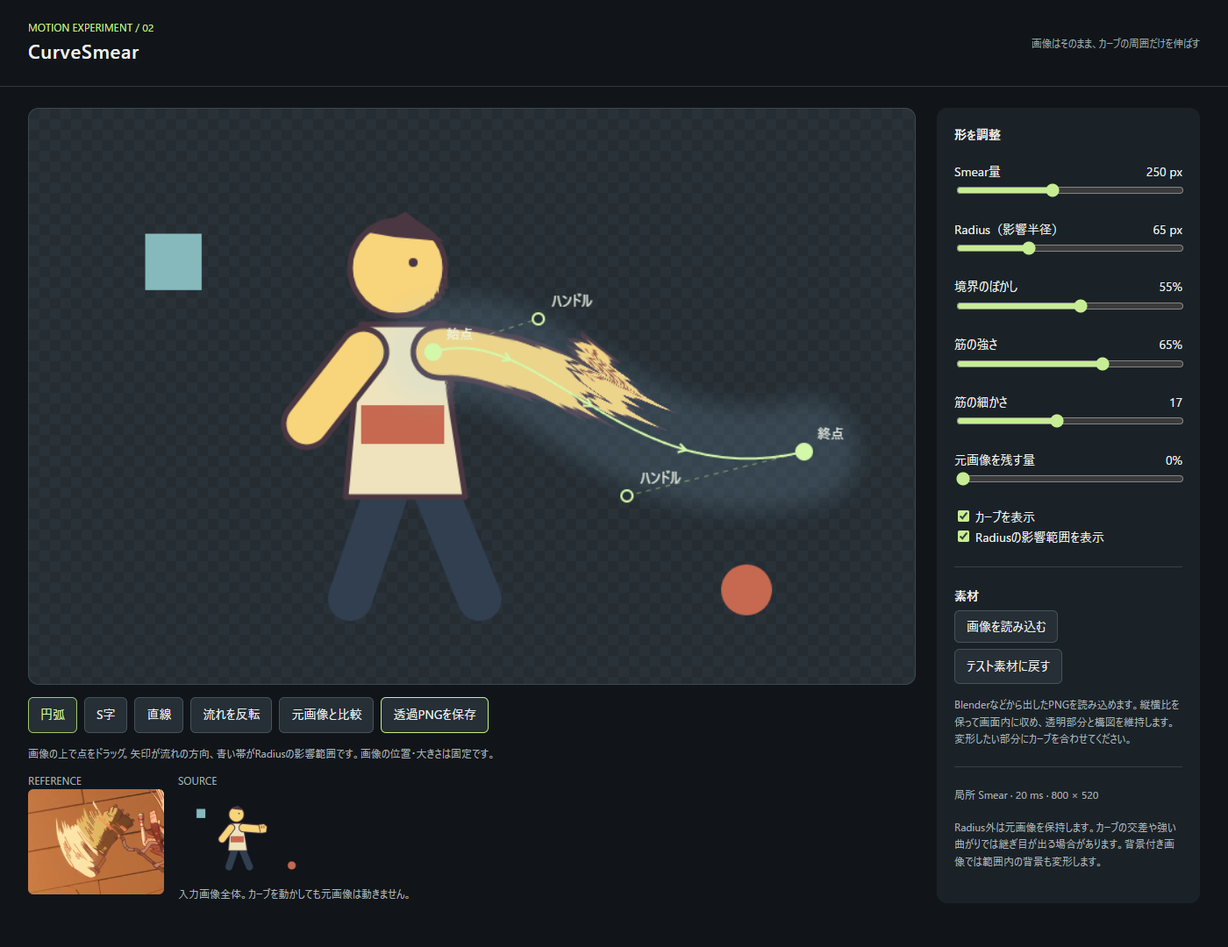
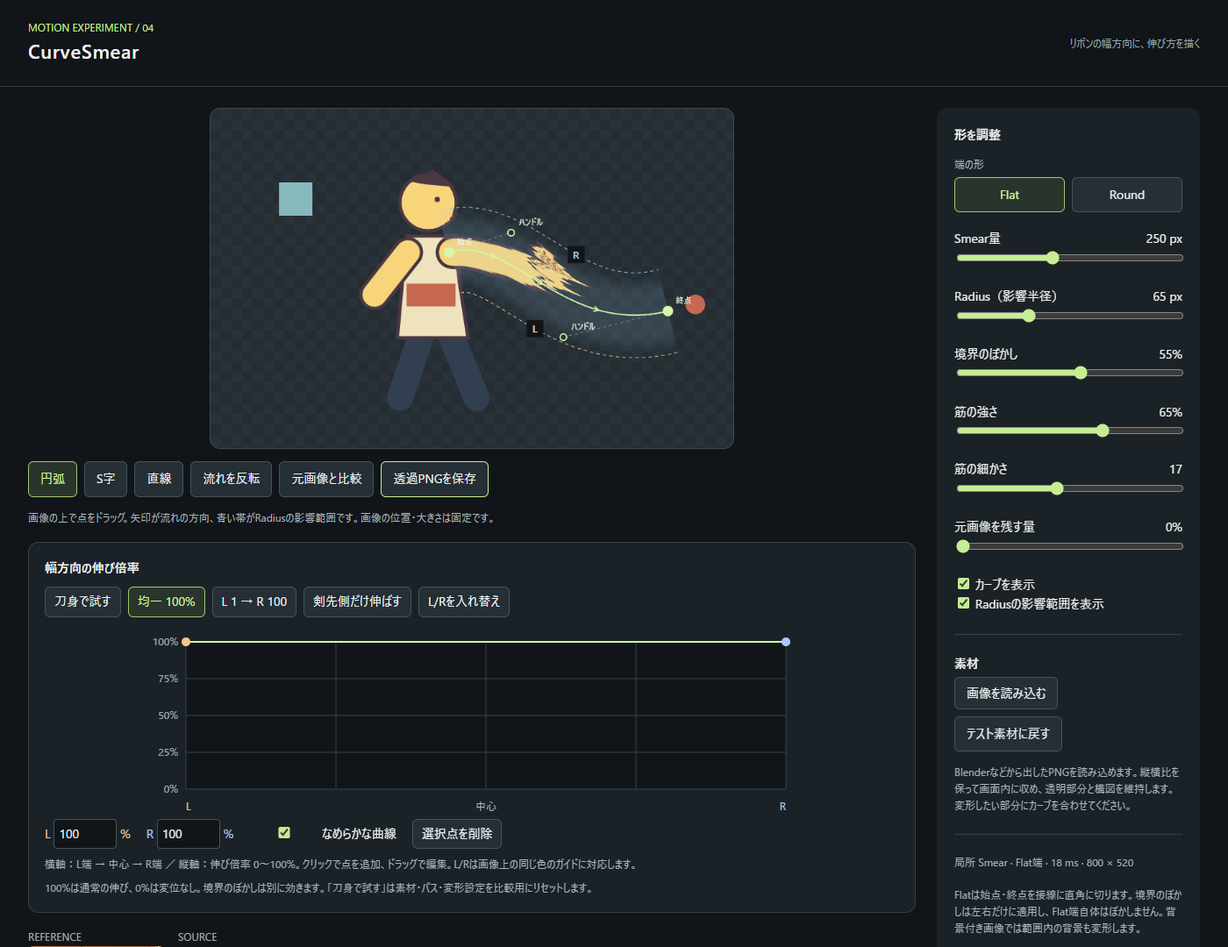
demo2

diff --git a/demo/app.js b/demo/app.js
@@ -3,7 +3,7 @@ const W=800,H=520,$=id=>document.getElementById(id);
 const canvas=$('render'),ctx=canvas.getContext('2d',{willReadFrequently:true}),overlay=$('overlay'),oc=overlay.getContext('2d');
 const source=document.createElement('canvas');source.width=W;source.height=H;
 const sc=source.getContext('2d',{willReadFrequently:true});
-let pixels,points,field,curve=[],curveLength=0,scheduled=false,dirty=true,comparison=false,drag=-1,reverse=false;
+let pixels,points,field,curve=[],curveLength=0,scheduled=false,dirty=true,comparison=false,drag=-1,reverse=false,capMode='flat';
 const presets={arc:[[365,220],[460,190],[540,350],[700,310]],s:[[320,200],[580,100],[400,420],[710,330]],line:[[330,235],[450,235],[570,235],[710,235]]};
 function defaultSource(){
  sc.clearRect(0,0,W,H);sc.lineJoin='round';sc.lineCap='round';
@@ -17,9 +17,24 @@ function defaultSource(){
  sc.strokeStyle='#99523f';sc.lineWidth=3;for(let x=471;x<494;x+=7){sc.beginPath();sc.moveTo(x,208);sc.lineTo(x+1,222);sc.stroke();}
  sc.fillStyle='#f8d47a';sc.strokeStyle='#4a3742';sc.lineWidth=5;sc.beginPath();sc.arc(333,144,43,0,Math.PI*2);sc.fill();sc.stroke();
  sc.fillStyle='#4a3742';sc.beginPath();sc.arc(347,139,4,0,Math.PI*2);sc.fill();sc.beginPath();sc.moveTo(307,112);sc.lineTo(340,93);sc.lineTo(375,120);sc.lineTo(330,116);sc.closePath();sc.fill();
- sc.fillStyle='#86b9bc';sc.fillRect(105,113,51,51);sc.fillStyle='#c66950';sc.beginPath();sc.arc(648,435,23,0,Math.PI*2);sc.fill();updateSource();
+ sc.fillStyle='#86b9bc';sc.fillRect(105,113,51,51);sc.fillStyle='#c66950';sc.beginPath();sc.arc(742,300,15,0,Math.PI*2);sc.fill();updateSource();
 }
 function updateSource(){pixels=sc.getImageData(0,0,W,H).data;$('sourcePreview').src=source.toDataURL();request();}
+function swordScene(){
+ sc.clearRect(0,0,W,H);sc.save();sc.translate(400,410);sc.rotate(-110*Math.PI/180);
+ sc.lineJoin='round';sc.lineWidth=3;sc.strokeStyle='#344754';
+ sc.fillStyle='#b78259';sc.fillRect(88,-9,58,18);sc.strokeRect(88,-9,58,18);
+ sc.fillStyle='#edc37d';sc.fillRect(134,-32,12,64);sc.strokeRect(134,-32,12,64);
+ sc.beginPath();sc.moveTo(148,-13);sc.lineTo(273,-13);sc.lineTo(310,0);sc.lineTo(273,13);sc.lineTo(148,13);sc.closePath();sc.fillStyle='#e7f1fa';sc.fill();sc.stroke();
+ sc.beginPath();sc.moveTo(149,0);sc.lineTo(306,0);sc.lineTo(273,12);sc.lineTo(149,12);sc.closePath();sc.fillStyle='#94b8d1';sc.fill();
+ for(const r of [178,218,258]){sc.strokeStyle='#577b93';sc.lineWidth=2;sc.beginPath();sc.moveTo(r,-11);sc.lineTo(r,11);sc.stroke();}
+ sc.restore();
+ points=[[209.4744,300],[294.15,153.3333],[505.85,153.3333],[590.5256,300]];dirty=true;
+ document.querySelectorAll('[data-preset]').forEach(b=>b.classList.remove('active'));
+ for(const [id,v] of Object.entries({length:450,radius:100,feather:0,streak:0,original:0}))$(id).value=v;
+ reverse=false;$('reverse').classList.remove('active');comparison=false;$('compare').classList.remove('active');$('compare').textContent='元画像と比較';
+ setProfile('ramp');updateSource();
+}
 function bezier(t){const u=1-t;return [0,1].map(k=>u*u*u*points[0][k]+3*u*u*t*points[1][k]+3*u*t*t*points[2][k]+t*t*t*points[3][k]);}
 function buildField(){
  const segments=[];let prev=bezier(0),s=0;
@@ -41,6 +56,7 @@ function frame(s,n){
 function noise(v){return .5+.24*Math.sin(v*1.17+1.4)+.16*Math.sin(v*2.71+.3)+.10*Math.sin(v*5.39+2.1);}
 function smooth(v){v=Math.max(0,Math.min(1,v));return v*v*(3-2*v);}
 function maskAt(d,r,f){return d>=r?0:f===0?1:smooth((r-d)/(r*f));}
+function capAllows(s){return capMode==='round'||(s>1e-3&&s<curveLength-1e-3);}
 // Bilinear interpolation and original-image blending use premultiplied alpha.
 function sample(x,y,out,i,mix){
  const ix=Math.floor(x),iy=Math.floor(y),fx=x-ix,fy=y-iy;let a=0,r=0,g=0,b=0;
@@ -54,20 +70,30 @@ function render(){
  for(const id of ['length','radius','feather','streak','frequency','original'])$(id+'Value').value=$(id).value+(['length','radius'].includes(id)?' px':id==='frequency'?'':'%');
  const img=new ImageData(new Uint8ClampedArray(pixels),W,H),out=img.data;
  if(!comparison&&amount>0&&curveLength>0&&mix<1)for(let i=0;i<W*H;i++){
+  if(!capAllows(field.along[i]))continue;
   const mask=maskAt(field.distance[i],radius,feather);if(!mask)continue;
   const s=field.along[i],n=field.normal[i],grain=noise(n/Math.max(20,radius)*freq),travel=reverse?curveLength-s:s;
   // Compress upstream curve coordinates to stretch the fixed source downstream.
   // A frame delta (rather than absolute placement) preserves identity at zero influence.
-  const shift=travel*amount/(curveLength+amount)*mask*(1-strength*.85*grain),ss=s+(reverse?shift:-shift);
+  const gain=widthGain(n,radius);if(gain===0)continue;
+  const shift=travel*amount/(curveLength+amount)*mask*(1-strength*.85*grain)*gain,ss=s+(reverse?shift:-shift);
   const a=frame(s,n),b=frame(ss,n),x=i%W,y=Math.floor(i/W);
   sample(x+b[0]-a[0],y+b[1]-a[1],out,i*4,mix);
  }
- ctx.putImageData(img,0,0);drawGuide();$('status').textContent=`${comparison?'元画像':'局所 Smear'} · ${Math.round(performance.now()-start)} ms · 800 × 520`;
+ ctx.putImageData(img,0,0);drawGuide();$('status').textContent=`${comparison?'元画像':'局所 Smear'} · ${capMode==='flat'?'Flat端':'Round端'} · ${Math.round(performance.now()-start)} ms · 800 × 520`;
 }
 function drawGuide(){
  oc.clearRect(0,0,W,H);
- if($('region').checked&&field){const img=oc.createImageData(W,H),r=+$('radius').value,f=+$('feather').value/100;for(let i=0;i<W*H;i++){const m=maskAt(field.distance[i],r,f);img.data[i*4]=157;img.data[i*4+1]=211;img.data[i*4+2]=245;img.data[i*4+3]=m*35;}oc.putImageData(img,0,0);}
+ if($('region').checked&&field){const img=oc.createImageData(W,H),r=+$('radius').value,f=+$('feather').value/100;for(let i=0;i<W*H;i++){const m=capAllows(field.along[i])?maskAt(field.distance[i],r,f):0;img.data[i*4]=157;img.data[i*4+1]=211;img.data[i*4+2]=245;img.data[i*4+3]=m*35;}oc.putImageData(img,0,0);}
  if(!$('guide').checked)return;
+ if(curve.length){
+  const r=+$('radius').value;
+  for(const [label,n,color] of [['L',r,'#f5c78b'],['R',-r,'#a7c9ff']]){
+   oc.strokeStyle=color;oc.lineWidth=1;oc.setLineDash([5,5]);oc.beginPath();
+   for(let k=0;k<=80;k++){const p=frame(curveLength*k/80,n);if(k===0)oc.moveTo(...p);else oc.lineTo(...p);}oc.stroke();oc.setLineDash([]);
+   const p=frame(curveLength*.5,n);oc.font='bold 16px system-ui';oc.textAlign='center';oc.fillStyle='#111519';oc.fillRect(p[0]-13,p[1]-13,26,26);oc.fillStyle=color;oc.fillText(label,p[0],p[1]+6);oc.textAlign='left';
+  }
+ }
  oc.lineWidth=1;oc.strokeStyle='#c6ed9380';oc.setLineDash([4,5]);oc.beginPath();oc.moveTo(...points[0]);oc.lineTo(...points[1]);oc.moveTo(...points[2]);oc.lineTo(...points[3]);oc.stroke();oc.setLineDash([]);oc.strokeStyle='#d3f8a9';oc.lineWidth=2;oc.beginPath();oc.moveTo(...points[0]);oc.bezierCurveTo(...points[1],...points[2],...points[3]);oc.stroke();
  points.forEach((p,i)=>{oc.beginPath();oc.arc(...p,i===0||i===3?7:5,0,Math.PI*2);oc.fillStyle=i===0||i===3?'#d3f8a9':'#263139';oc.fill();oc.stroke();oc.fillStyle='#edf5e7';oc.font='12px system-ui';oc.fillText(['始点','ハンドル','ハンドル','終点'][i],p[0]+12,p[1]-12);});
  for(const t of [.25,.5,.75]){const p=bezier(t),q=bezier(t+.005),angle=Math.atan2(q[1]-p[1],q[0]-p[0])+(reverse?Math.PI:0);oc.save();oc.translate(...p);oc.rotate(angle);oc.beginPath();oc.moveTo(-7,-4);oc.lineTo(0,0);oc.lineTo(-7,4);oc.stroke();oc.restore();}
@@ -75,15 +101,18 @@ function drawGuide(){
 function request(){if(!scheduled){scheduled=true;requestAnimationFrame(()=>{scheduled=false;render();});}}
 function preset(name){points=presets[name].map(p=>p.slice());dirty=true;document.querySelectorAll('[data-preset]').forEach(b=>b.classList.toggle('active',b.dataset.preset===name));request();}
 document.querySelectorAll('[data-preset]').forEach(b=>b.onclick=()=>preset(b.dataset.preset));
+document.querySelectorAll('[data-cap]').forEach(b=>b.onclick=()=>{capMode=b.dataset.cap;document.querySelectorAll('[data-cap]').forEach(x=>x.classList.toggle('active',x===b));request();});
 for(const id of ['length','radius','feather','streak','frequency','original'])$(id).oninput=request;
 $('guide').onchange=$('region').onchange=drawGuide;
 $('reverse').onclick=()=>{reverse=!reverse;$('reverse').classList.toggle('active',reverse);request();};
 $('compare').onclick=()=>{comparison=!comparison;$('compare').classList.toggle('active',comparison);$('compare').textContent=comparison?'Smearに戻す':'元画像と比較';request();};
 $('save').onclick=()=>{render();const a=document.createElement('a');a.download='curve-smear.png';a.href=canvas.toDataURL();a.click();};
 $('resetSource').onclick=defaultSource;
+$('swordScene').onclick=swordScene;
 $('file').onchange=()=>{const file=$('file').files[0];if(!file)return;const url=URL.createObjectURL(file),img=new Image();img.onload=()=>{sc.clearRect(0,0,W,H);const scale=Math.min(W/img.width,H/img.height);sc.drawImage(img,(W-img.width*scale)/2,(H-img.height*scale)/2,img.width*scale,img.height*scale);URL.revokeObjectURL(url);updateSource();};img.onerror=()=>{URL.revokeObjectURL(url);$('status').textContent='画像を読み込めませんでした。PNGまたはJPEGでお試しください。';};img.src=url;};
 function pointer(e){const r=overlay.getBoundingClientRect();return [(e.clientX-r.left)*W/r.width,(e.clientY-r.top)*H/r.height];}
 overlay.onpointerdown=e=>{if(!$('guide').checked)return;const p=pointer(e);drag=points.findIndex(q=>Math.hypot(q[0]-p[0],q[1]-p[1])<18);if(drag>=0)overlay.setPointerCapture(e.pointerId);};
 overlay.onpointermove=e=>{if(drag<0)return;points[drag]=pointer(e).map((v,i)=>Math.max(12,Math.min((i?H:W)-12,v)));dirty=true;request();};
 overlay.onpointerup=overlay.onpointercancel=()=>drag=-1;
 preset('arc');defaultSource();
+if(new URLSearchParams(location.search).get('scene')==='sword')swordScene();

diff --git a/demo/index.html b/demo/index.html
@@ -2,16 +2,27 @@
 <html lang="ja">
 <meta charset="utf-8">
 <meta name="viewport" content="width=device-width,initial-scale=1">
-<title>CurveSmear · Study 02</title>
+<title>CurveSmear · Study 04</title>
 <style>
-*{box-sizing:border-box}body{margin:0;background:#111519;color:#edf0ee;font:14px/1.6 system-ui,sans-serif}header{padding:22px 32px;border-bottom:1px solid #30383b;display:flex;justify-content:space-between;align-items:center}h1{margin:0;font-size:22px;letter-spacing:.03em}small,.muted{color:#9ba8ad}main{display:grid;grid-template-columns:minmax(500px,1fr) 300px;gap:24px;padding:24px 32px;max-width:1500px;margin:auto}.stage{position:relative;background:#252d33;border:1px solid #3e484d;border-radius:12px;overflow:hidden;aspect-ratio:800/520;background-image:linear-gradient(45deg,#293238 25%,transparent 25%),linear-gradient(-45deg,#293238 25%,transparent 25%),linear-gradient(45deg,transparent 75%,#293238 75%),linear-gradient(-45deg,transparent 75%,#293238 75%);background-size:24px 24px;background-position:0 0,0 12px,12px -12px,-12px 0}canvas{width:100%;height:100%;position:absolute;inset:0}#overlay{touch-action:none}.bar{display:flex;gap:8px;flex-wrap:wrap;margin:14px 0}button,.upload{border:1px solid #46535a;background:#252f35;color:#eef1f1;padding:8px 13px;border-radius:6px;cursor:pointer;font:inherit}button:hover,.upload:hover{border-color:#c5ef89}button.active{color:#d4f7a5;border-color:#9fc96c}aside{background:#1b2227;padding:20px;border-radius:12px}label.control{display:block;margin:19px 0}label.control span{display:flex;justify-content:space-between}input[type=range]{width:100%;accent-color:#c6ed93}input[type=checkbox]{accent-color:#c6ed93}h2{font-size:14px;margin:0 0 12px}hr{border:0;border-top:1px solid #364047;margin:22px 0}.thumbs{display:flex;gap:16px;align-items:flex-start}.thumbs img{max-width:160px;max-height:120px;border-radius:6px}.caption{font-size:12px;color:#aab5b9}.tag{color:#c6ed93;font-size:12px}.footer{margin-top:18px;font-size:12px;color:#aab5b9}@media(max-width:900px){main{grid-template-columns:1fr;padding:16px}header{padding:16px}aside{width:100%}}
+*{box-sizing:border-box}body{margin:0;background:#111519;color:#edf0ee;font:14px/1.6 system-ui,sans-serif}header{padding:22px 32px;border-bottom:1px solid #30383b;display:flex;justify-content:space-between;align-items:center}h1{margin:0;font-size:22px;letter-spacing:.03em}small,.muted{color:#9ba8ad}main{display:grid;grid-template-columns:minmax(500px,1fr) 300px;gap:24px;padding:24px 32px;max-width:1500px;margin:auto}.stage{position:relative;background:#252d33;border:1px solid #3e484d;border-radius:12px;overflow:hidden;aspect-ratio:800/520;background-image:linear-gradient(45deg,#293238 25%,transparent 25%),linear-gradient(-45deg,#293238 25%,transparent 25%),linear-gradient(45deg,transparent 75%,#293238 75%),linear-gradient(-45deg,transparent 75%,#293238 75%);background-size:24px 24px;background-position:0 0,0 12px,12px -12px,-12px 0}canvas{width:100%;height:100%;position:absolute;inset:0}#overlay{touch-action:none}.bar,.segmented{display:flex;gap:8px;flex-wrap:wrap;margin:14px 0}.segmented{margin:5px 0 18px}.segmented button{flex:1}button,.upload{border:1px solid #46535a;background:#252f35;color:#eef1f1;padding:8px 13px;border-radius:6px;cursor:pointer;font:inherit}button:hover,.upload:hover{border-color:#c5ef89}button.active{color:#d4f7a5;border-color:#9fc96c;background:#29352c}aside{background:#1b2227;padding:20px;border-radius:12px}label.control{display:block;margin:19px 0}label.control span{display:flex;justify-content:space-between}input[type=range]{width:100%;accent-color:#c6ed93}input[type=checkbox]{accent-color:#c6ed93}h2{font-size:14px;margin:0 0 12px}hr{border:0;border-top:1px solid #364047;margin:22px 0}.thumbs{display:flex;gap:16px;align-items:flex-start}.thumbs img{max-width:160px;max-height:120px;border-radius:6px}.caption{font-size:12px;color:#aab5b9}.tag{color:#c6ed93;font-size:12px}.footer{margin-top:18px;font-size:12px;color:#aab5b9}@media(max-width:900px){main{grid-template-columns:1fr;padding:16px}header{padding:16px}aside{width:100%}}
+.profile-panel{background:#1b2227;border:1px solid #364047;border-radius:12px;padding:18px;margin:18px 0}.profile-panel h2{margin:0}.profile-panel .bar{margin:10px 0}.profile-panel canvas{position:static;display:block;width:100%;height:auto;aspect-ratio:760/220;touch-action:none;cursor:crosshair}.profile-values{display:flex;gap:18px;flex-wrap:wrap;align-items:center}.profile-values input{width:72px;background:#111519;color:#edf0ee;border:1px solid #46535a;border-radius:4px;padding:5px;font:inherit}.profile-values label:first-child{color:#f5c78b}.profile-values label:nth-child(2){color:#a7c9ff}.profile-panel button{padding:5px 10px}.profile-panel p{margin:8px 0 0}
+.stage{width:min(100%,55.4vh);margin:auto}.profile-panel canvas{max-width:760px;margin:auto}@media(max-width:900px){.stage{width:100%}}
 </style>
-<header><div><div class="tag">MOTION EXPERIMENT / 02</div><h1>CurveSmear</h1></div><small>画像はそのまま、カーブの周囲だけを伸ばす</small></header>
+<header><div><div class="tag">MOTION EXPERIMENT / 04</div><h1>CurveSmear</h1></div><small>リボンの幅方向に、伸び方を描く</small></header>
 <main><section><div class="stage"><canvas id="render" width="800" height="520"></canvas><canvas id="overlay" width="800" height="520"></canvas></div>
 <div class="bar"><button data-preset="arc" class="active">円弧</button><button data-preset="s">S字</button><button data-preset="line">直線</button><button id="reverse">流れを反転</button><button id="compare">元画像と比較</button><button id="save">透過PNGを保存</button></div>
 <p class="caption">画像の上で点をドラッグ。矢印が流れの方向、青い帯がRadiusの影響範囲です。画像の位置・大きさは固定です。</p>
+<div class="profile-panel">
+<h2>幅方向の伸び倍率</h2>
+<div class="bar"><button id="swordScene">刀身で試す</button><button data-profile="uniform" class="active">均一 100%</button><button data-profile="ramp">L 1 → R 100</button><button data-profile="tip">剣先側だけ伸ばす</button><button id="flipProfile">L/Rを入れ替え</button></div>
+<canvas id="profile" width="760" height="220" aria-label="幅方向の伸び倍率グラフ。クリックで点を追加し、ドラッグで調整。選択した中間点はDeleteキーで削除。" tabindex="0"></canvas>
+<div class="profile-values"><label>L <input id="profileLeft" type="number" min="0" max="100" step="1" value="100"> %</label><label>R <input id="profileRight" type="number" min="0" max="100" step="1" value="100"> %</label><label><input id="profileSmooth" type="checkbox" checked> なめらかな曲線</label><button id="deleteProfilePoint" disabled>選択点を削除</button></div>
+<p class="caption">横軸：L端 → 中心 → R端 ／ 縦軸：伸び倍率 0〜100%。クリックで点を追加、ドラッグで編集。L/Rは画像上の同じ色のガイドに対応します。</p>
+<p class="caption">100%は通常の伸び、0%は変位なし。境界のぼかしは別に効きます。「刀身で試す」は素材・パス・変形設定を比較用にリセットします。</p>
+</div>
 <div class="thumbs"><div><div class="caption">REFERENCE</div><img src="../image.png" alt="漫画的なsmearの参考画像"></div><div><div class="caption">SOURCE</div><img id="sourcePreview" alt="現在の入力素材"><div class="caption">入力画像全体。カーブを動かしても元画像は動きません。</div></div></div>
 </section><aside><h2>形を調整</h2>
+<div class="caption">端の形</div><div class="segmented"><button data-cap="flat" class="active">Flat</button><button data-cap="round">Round</button></div>
 <label class="control"><span>Smear量 <output id="lengthValue"></output></span><input id="length" type="range" min="0" max="600" value="250"></label>
 <label class="control"><span>Radius（影響半径） <output id="radiusValue"></output></span><input id="radius" type="range" min="5" max="200" value="65"></label>
 <label class="control"><span>境界のぼかし <output id="featherValue"></output></span><input id="feather" type="range" min="0" max="100" value="55"></label>
@@ -20,6 +31,7 @@
 <label class="control"><span>元画像を残す量 <output id="originalValue"></output></span><input id="original" type="range" min="0" max="100" value="0"></label>
 <label><input id="guide" type="checkbox" checked> カーブを表示</label><br><label><input id="region" type="checkbox" checked> Radiusの影響範囲を表示</label>
 <hr><h2>素材</h2><label class="upload">画像を読み込む<input id="file" type="file" accept="image/*" hidden></label><div class="bar"><button id="resetSource">テスト素材に戻す</button></div><p class="caption">Blenderなどから出したPNGを読み込めます。縦横比を保って画面内に収め、透明部分と構図を維持します。変形したい部分にカーブを合わせてください。</p>
-<hr><div id="status" class="caption" aria-live="polite"></div><p class="footer">Radius外は元画像を保持します。カーブの交差や強い曲がりでは継ぎ目が出る場合があります。背景付き画像では範囲内の背景も変形します。</p></aside></main>
+<hr><div id="status" class="caption" aria-live="polite"></div><p class="footer">Flatは始点・終点を接線に直角に切ります。境界のぼかしは左右だけに適用し、Flat端自体はぼかしません。背景付き画像では範囲内の背景も変形します。</p></aside></main>
+<script src="profile.js"></script>
 <script src="app.js"></script>
 </html>

diff --git a/demo/profile.js b/demo/profile.js
@@ -1,0 +1,84 @@
+'use strict';
+// Profile coordinates: x=0 is positive normal (L), x=1 is negative normal (R).
+// Use a bounded, shape-preserving Hermite curve so edits cannot overshoot 0..100%.
+let profilePoints=[[0,1],[1,1]],profileSelected=-1,profileDrag=-1;
+const profileCanvas=document.getElementById('profile'),pc=profileCanvas.getContext('2d');
+const profilePlot={x:54,y:18,w:684,h:168},profileLut=new Float32Array(1025);
+function profileSlopes(){
+ const p=profilePoints,h=[],d=[],m=[];
+ for(let i=0;i<p.length-1;i++){h[i]=p[i+1][0]-p[i][0];d[i]=(p[i+1][1]-p[i][1])/h[i];}
+ m[0]=d[0];m[p.length-1]=d[d.length-1];
+ for(let i=1;i<p.length-1;i++){
+  const a=d[i-1],b=d[i],w1=2*h[i]+h[i-1],w2=h[i]+2*h[i-1];
+  m[i]=a*b<=0?0:(w1+w2)/(w1/a+w2/b);
+ }
+ return m;
+}
+function rebuildProfile(){
+ const p=profilePoints,m=profileSlopes(),curved=document.getElementById('profileSmooth').checked;
+ let j=0;
+ for(let k=0;k<profileLut.length;k++){
+  const u=k/(profileLut.length-1);while(j<p.length-2&&u>p[j+1][0])j++;
+  const h=p[j+1][0]-p[j][0],t=(u-p[j][0])/h,t2=t*t,t3=t2*t;
+  const v=curved?(2*t3-3*t2+1)*p[j][1]+(t3-2*t2+t)*h*m[j]+(-2*t3+3*t2)*p[j+1][1]+(t3-t2)*h*m[j+1]:p[j][1]*(1-t)+p[j+1][1]*t;
+  profileLut[k]=Math.max(0,Math.min(1,v));
+ }
+ document.getElementById('profileLeft').value=Math.round(p[0][1]*100);
+ document.getElementById('profileRight').value=Math.round(p[p.length-1][1]*100);
+ document.querySelectorAll('[data-profile]').forEach(b=>b.classList.toggle('active',b.dataset.profile==='uniform'&&p.every(q=>q[1]===1)));
+ drawProfile();
+}
+function profileAt(u){
+ const v=Math.max(0,Math.min(1,u))*(profileLut.length-1),i=Math.floor(v),f=v-i;
+ return profileLut[i]*(1-f)+profileLut[Math.min(i+1,profileLut.length-1)]*f;
+}
+function widthGain(n,r){return profileAt((1-n/r)/2);}
+function drawProfile(){
+ const {x,y,w,h}=profilePlot;
+ pc.clearRect(0,0,760,220);pc.fillStyle='#111519';pc.fillRect(x,y,w,h);
+ pc.font='12px system-ui';pc.lineWidth=1;
+ for(let i=0;i<=4;i++){
+  pc.strokeStyle='#354047';pc.beginPath();pc.moveTo(x,y+i*h/4);pc.lineTo(x+w,y+i*h/4);pc.moveTo(x+i*w/4,y);pc.lineTo(x+i*w/4,y+h);pc.stroke();
+  pc.fillStyle='#aab5b9';pc.textAlign='right';pc.fillText(`${100-i*25}%`,x-9,y+i*h/4+4);
+ }
+ pc.strokeStyle='#d3f8a9';pc.lineWidth=2;pc.beginPath();
+ for(let k=0;k<=684;k++){const px=x+k,py=y+h*(1-profileAt(k/684));if(k===0)pc.moveTo(px,py);else pc.lineTo(px,py);}pc.stroke();
+ profilePoints.forEach((p,i)=>{pc.beginPath();pc.arc(x+p[0]*w,y+(1-p[1])*h,i===profileSelected?7:5,0,Math.PI*2);pc.fillStyle=i===0?'#f5c78b':i===profilePoints.length-1?'#a7c9ff':'#d3f8a9';pc.fill();if(i===profileSelected){pc.strokeStyle='#fff';pc.lineWidth=1;pc.stroke();}});
+ pc.textAlign='left';pc.fillStyle='#f5c78b';pc.fillText('L',x,y+h+24);pc.textAlign='center';pc.fillStyle='#aab5b9';pc.fillText('中心',x+w/2,y+h+24);pc.textAlign='right';pc.fillStyle='#a7c9ff';pc.fillText('R',x+w,y+h+24);
+ document.getElementById('deleteProfilePoint').disabled=profileSelected<=0||profileSelected>=profilePoints.length-1;
+}
+function changeProfile(){rebuildProfile();request();}
+function setProfile(name){
+ profilePoints=name==='ramp'?[[0,.01],[1,1]]:name==='tip'?[[0,.01],[.55,.03],[.8,.35],[1,1]]:[[0,1],[1,1]];
+ profileSelected=profileDrag=-1;changeProfile();
+ document.querySelectorAll('[data-profile]').forEach(b=>b.classList.toggle('active',b.dataset.profile===name));
+}
+function profilePointer(e){const r=profileCanvas.getBoundingClientRect();return [(e.clientX-r.left)*760/r.width,(e.clientY-r.top)*220/r.height];}
+profileCanvas.onpointerdown=e=>{
+ const [x,y]=profilePointer(e),g=profilePlot;
+ let i=profilePoints.findIndex(p=>Math.hypot(g.x+p[0]*g.w-x,g.y+(1-p[1])*g.h-y)<13);
+ if(i<0){
+  const u=(x-g.x)/g.w;if(u<.015||u>.985||y<g.y||y>g.y+g.h)return;
+  i=profilePoints.findIndex(p=>p[0]>u);
+  if(u-profilePoints[i-1][0]<.015||profilePoints[i][0]-u<.015)return;
+  profilePoints.splice(i,0,[u,Math.max(0,Math.min(1,1-(y-g.y)/g.h))]);
+ }
+ profileSelected=profileDrag=i;profileCanvas.focus({preventScroll:true});profileCanvas.setPointerCapture(e.pointerId);changeProfile();
+};
+profileCanvas.onpointermove=e=>{
+ if(profileDrag<0)return;const [x,y]=profilePointer(e),g=profilePlot,i=profileDrag;
+ if(i>0&&i<profilePoints.length-1)profilePoints[i][0]=Math.max(profilePoints[i-1][0]+.015,Math.min(profilePoints[i+1][0]-.015,(x-g.x)/g.w));
+ profilePoints[i][1]=Math.max(0,Math.min(1,1-(y-g.y)/g.h));changeProfile();
+};
+profileCanvas.onpointerup=profileCanvas.onpointercancel=profileCanvas.onlostpointercapture=()=>{profileDrag=-1;};
+function deleteProfilePoint(){if(profileSelected>0&&profileSelected<profilePoints.length-1){profilePoints.splice(profileSelected,1);profileSelected=profileDrag=-1;changeProfile();}}
+profileCanvas.onkeydown=e=>{if(e.key==='Delete'||e.key==='Backspace'){e.preventDefault();deleteProfilePoint();}};
+document.getElementById('deleteProfilePoint').onclick=deleteProfilePoint;
+document.querySelectorAll('[data-profile]').forEach(b=>b.onclick=()=>setProfile(b.dataset.profile));
+document.getElementById('flipProfile').onclick=()=>{profilePoints=profilePoints.map(p=>[1-p[0],p[1]]).reverse();profileSelected=profileDrag=-1;changeProfile();};
+for(const [id,end] of [['profileLeft',false],['profileRight',true]])document.getElementById(id).oninput=e=>{
+ if(e.target.value==='')return;const v=e.target.valueAsNumber;if(!Number.isFinite(v))return;
+ profilePoints[end?profilePoints.length-1:0][1]=Math.max(0,Math.min(100,v))/100;changeProfile();
+};
+document.getElementById('profileSmooth').onchange=changeProfile;
+rebuildProfile();

diff --git a/AE_IMPLEMENTATION.md b/AE_IMPLEMENTATION.md
@@ -42,3 +42,46 @@
 - 残作業は実素材での操作感、パスアニメーション、1920×1080の速度、EXR制作フローの確認。
 
 25.3は手元の実行ファイルが25.5へ更新済みのため、実機では未確認。
+
+## 次の改修についての合意（未実装）
+
+- 高速化は後回し。約55msという使用時の報告を記録し、現段階では最適化しない。
+- 最近傍補間を追加する方向。入力ピクセルを混ぜずに読み、0/1素材の色・アルファへ補間由来の中間値が生じるのを防ぐ。既存の線形補間との切り替えを候補とする。
+- `Keep Original`の中間値による混合は今回の対応対象から外す。既存機能は変更しない。
+- AEエフェクトにRound／Flat端の切り替えを追加することで合意。Flatは始点・終点の接線に直角な端を持つリボン状の領域とし、現在の丸い端による余分な広がりを抑える。
+- Flat端の操作感は使用後に評価・調整する。端専用のぼかしや初期値などの詳細は未確定。
+- この節はAE側の未実装項目を記録する。今回の設計相談ではネイティブコードは変更しない。
+- WebデモStudy 03ではFlat／Round端の切り替えを実装済み。AEエフェクト側にはまだ移植していない。
+
+## 検討中：刀身の根元から先端へ伸びを増やす（未決定・未実装）
+
+- 要望：剣を振る画像で、刀身の根元は短く、剣先ほど長いsmearにする。
+- ユーザー案：カーブの弧から自動判定する。
+- 検討時は、運動軌道に沿う方向と、刀身の根元から先端へ向かう方向を区別する。弧状の運動では後者がリボンの幅方向に相当する配置がある。
+- 提案候補A：リボン幅方向の強度勾配。片側を弱く、反対側を強くし、側の反転と勾配の調整を可能にする。Radiusの境界減衰とは別の制御として扱う。
+- 提案候補B：根元・剣先の2点で強度勾配を指定。カーブ形状と独立して、どこを弱く／強くするかを明示できる。
+- 提案候補C：回転中心と角度を指定する方式。純粋な平面回転なら移動弧長は中心からの距離に比例するが、遠近・並進を含む素材では演出的調整が必要。
+- 自動判定では、直線に近い部分、S字、変曲点で曲率や内外の判定が不安定になり得る。自動推定のみを必須とせず、手動調整を残す案を検討する。
+- 現在も法線方向のオフセットを保ってカーブをたどるため、円弧の内外で実移動距離に差が生じ得る。追加倍率が必要か、現状の幾何による差が足りないかは、刀身の素材とパス配置で確認する。
+
+### 幅方向の倍率グラフ案（ユーザー提案・検討中）
+
+- トーンカーブ状の編集グラフを用意する。横軸はリボンの幅方向のL端→中心→R端、縦軸はsmearの伸び倍率（%）。パスの始点→終点を横軸にはしない。
+- 通常はL=100%、R=100%の水平線で既存の伸びを維持。提示図のようにLが刀身の根元側なら、L=1%、R=100%として幅方向に伸びを増やす。0%は変位なし、1%はごく小さい変位として区別する。
+- 両端の数値入力と、中間点／曲線による配分調整を候補にする。直線なら均等に増加、曲線なら剣先側だけ急に増加する、といった演出を可能にする。
+- L/Rはカーブに沿った一貫した法線の両側に対応させ、曲率から内側／外側を自動判定して入れ替えない。画面内のL/R表示と倍率分布の左右反転操作を候補にする。Reverseによるsmear方向の変更ではL/Rを入れ替えない。マスク自体の頂点順序を反転した場合の扱いは別途決める。
+- 実装案は、符号付き幅位置を0〜1へ正規化してグラフを評価し、既存処理が計算するパス上の移動量shiftに倍率を掛ける。Amount自体への乗算は、現在の非線形なAmount→shift変換により指定%と変位倍率が一致しないため避ける。
+- この倍率はパス上の変位を制御する。曲率と法線オフセットにより、画面上の実移動距離が厳密に同じ比率になるとは限らない。Radiusの影響範囲、Edge Feather、Keep Originalとは独立した制御として扱う。
+- WebデモStudy 04で幅方向倍率グラフを実装済み。L/R数値入力、中間点の追加・移動・削除、形状を保つ曲線補間／直線補間、倍率分布の左右反転、3種のプリセット、刀身の比較シーンを用意した。
+- デモではLを正の法線側（橙）、Rを負の法線側（青）に対応させた。刀身シーンではLが根元側。倍率はshiftに掛け、0%ではサンプリングをスキップして入力ピクセルを保持する。
+- AE内のグラフ編集UIと保存・アニメーション方式は未設計・未実装。Webデモの操作感を見てから決定する。
+
+### AE移植の相談：Study 04確認後
+
+- ユーザー希望：Web版の倍率グラフと操作をAEエフェクト内へ移植する。「均一100%」ボタンは「リセット」に改名し、「L/Rの入れ替え」ボタンも含める。
+- SDK 25.2のCustom_ECW_UI／ColorGridサンプルで、エフェクトコントロール内のカスタム描画・操作と任意データパラメータを確認。HTMLを直接表示する方式ではなく、同じ倍率計算と点編集をネイティブUIとして再現する方針。
+- 提案する基本仕様：倍率0〜100%、初期値は100%の水平線。点追加・移動・削除、L/R数値入力、なめらかな曲線／直線切り替えを維持する。
+- 「リセット」は倍率グラフの中間点を除き、L/Rを100%へ戻す。他の変形設定やマスクパスは保持。「L/Rの入れ替え」は中間点も含む倍率分布全体を左右反転する。
+- Undo/Redo、プロジェクト保存・再読み込み、エフェクトの複製・コピー、プリセットへの保存で倍率データを保持できる実装を目指し、それぞれ検証する。
+- 移植前の確認事項：グラフ形状自体のキーフレームアニメーションを初版から必要とするか。対応する場合は、キー間で点数が異なる場合を含め補間方法を定義する。Smear Amountなど既存パラメータのアニメーションとは別の事項。
+- AE側の実装はこの相談では開始していない。

diff --git a/demo/README.md b/demo/README.md
@@ -1,11 +1,31 @@
-# CurveSmear — Study 02
+# CurveSmear — Study 04
 
 `index.html` をブラウザで開いてください。インストールやサーバーは不要です。
 
 画像を固定表示し、カーブの周囲だけを変形する静止画デモです。
 
+## 幅方向の倍率グラフ
+
+「刀身で試す」で比較用の素材と円弧を読み込みます。`index.html?scene=sword` からも直接開けます。
+この操作は素材・パス・Smear量450・Radius100・境界のぼかし0・筋0・元画像との混合0・通常方向・L1→R100を設定します。
+
+- 横軸は幅方向のL端→中心→R端、縦軸は伸び倍率0〜100%。パスの始点→終点ではありません。
+- 「均一100%」は従来の変形。「L1→R100」はL側を抑え、「剣先側だけ伸ばす」はR側へ寄せた曲線です。
+- グラフをクリックして中間点を追加し、ドラッグで移動。選択した中間点は削除ボタンかDeleteキーで削除します。端点は削除できません。
+- L/Rの端点は数値でも入力できます。「なめらかな曲線」を外すと点同士を直線で結びます。
+- Lは正の法線側（橙）、Rは負の法線側（青）。刀身シーンではLが根元、Rが剣先側です。S字でも内外を自動判定して入れ替えません。
+- 「L/Rを入れ替え」は倍率分布を左右反転します。「流れを反転」は倍率分布を変えません。
+- 倍率は既存処理が計算したパス上の変位に掛けます。0%で変位なし、100%で従来の変位。境界のぼかし・筋・元画像との混合は別途効きます。
+- 曲線補間は点間で値が行き過ぎないHermite補間を使い、0〜100%に収めています。
+- PNG保存にはグラフやガイドを含みません。編集内容の保存・アニメーションはこのデモにはありません。
+
+## 基本操作
+
 - 画像を読み込み、変形したい部分の上にカーブの4点をドラッグします。
 - Radiusはカーブからの影響半径です。青い帯が影響範囲を示します。
+- Flatは始点・終点を接線に直角に切り、Roundは従来どおり半円状に広げます。初期値はFlatです。
+- Flat端にはぼかしを適用せず、境界のぼかしはリボンの左右にのみ適用します。
+- テスト素材の赤い円は終点より先にある比較物です。Flatでは保持され、Roundでは変形範囲に入ります。
 - Smear量で引き伸ばし、境界のぼかしで範囲の端の強さを調整します。
 - 筋の強さを0にすると基本の変形を確認できます。
 - 流れを反転できます。矢印が素材を伸ばす方向です。
